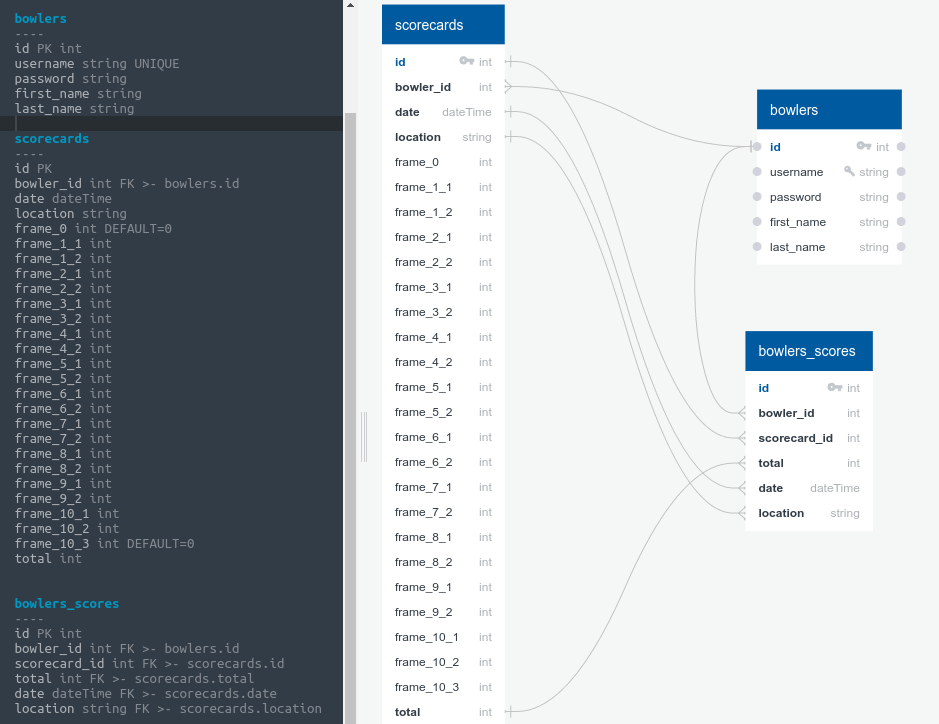
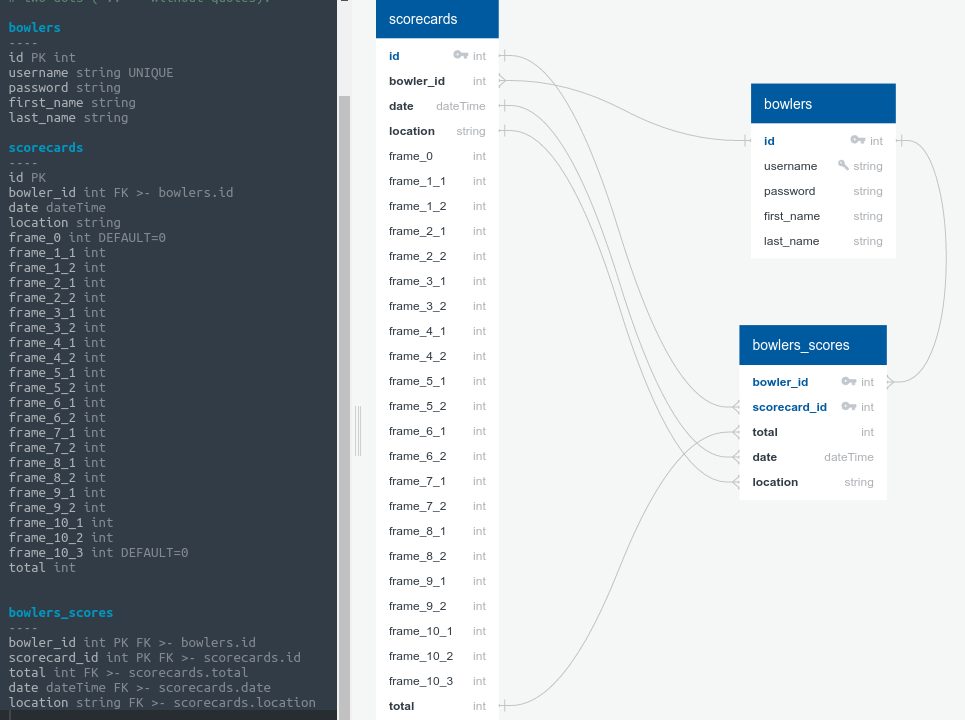
added app.py and models.py. Also made changes to picture

diff --git a/models.py b/models.py
@@ -1,0 +1,99 @@
+from flask_sqlalchemy import SQLAlchemy
+from flask_bcrypt import Bcrypt
+import datetime
+
+db = SQLAlchemy()
+
+bcrypt = Bcrypt()
+
+
+# (app) from app.py
+def connect_db(app):
+    db.app = app
+    db.init_app(app)
+
+
+class Bowler(db.Model):
+    __tablename__ = "bowlers"
+
+    id = db.Column(db.Integer, primary_key=True, autoincrement=True)
+    first_name = db.Column(db.Text, nullable=False)
+    last_name = db.Column(db.Text, nullable=False)
+    username = db.Column(db.Text, nullable=False, unique=True)
+
+    password = db.Column(db.Text, nullable=False)
+
+    # start_register
+    @classmethod
+    def register(cls, username, pwd):
+        """Register user w/hashed password & return user."""
+
+        hashed = bcrypt.generate_password_hash(pwd)
+
+        hashed_utf8 = hashed.decode("utf8")
+
+        return cls(username=username, password=hashed_utf8)
+
+    # start_authenticate
+    @classmethod
+    def authenticate(cls, username, pwd):
+        """Validate that user exists & password is correct.
+
+        Return user if valid; else return False.
+        """
+
+        # searches for the user
+        user = Bowler.query.filter_by(username=username).first()
+
+        if user and bcrypt.check_password_hash(user.password, pwd):
+            return user
+        else:
+            return False
+
+    def __repr__(self):
+        u = self
+        return f"<User id = {u.id}, first_name = {u.first_name}, last_name = {u.last_name}>"
+
+
+class Scorecard(db.Model):
+    __tablename__ = "scorecards"
+
+    id = db.Column(db.Integer, primary_key=True, autoincrement=True)
+    bowler_id = db.Column(db.Integer, db.ForeignKey("bowlers.id"))
+    date = db.Column(db.DateTime, nullable=False, default=datetime.datetime.now)
+    location = db.Column(db.Text, nullable=False)
+    frame_0 = db.Column(db.Text, default=0)
+    frame_1_1 = db.Column(db.Text, nullable=False)
+    frame_1_2 = db.Column(db.Text, nullable=False)
+    frame_2_1 = db.Column(db.Text, nullable=False)
+    frame_2_2 = db.Column(db.Text, nullable=False)
+    frame_3_1 = db.Column(db.Text, nullable=False)
+    frame_3_2 = db.Column(db.Text, nullable=False)
+    frame_4_1 = db.Column(db.Text, nullable=False)
+    frame_4_2 = db.Column(db.Text, nullable=False)
+    frame_5_1 = db.Column(db.Text, nullable=False)
+    frame_5_2 = db.Column(db.Text, nullable=False)
+    frame_6_1 = db.Column(db.Text, nullable=False)
+    frame_6_2 = db.Column(db.Text, nullable=False)
+    frame_7_1 = db.Column(db.Text, nullable=False)
+    frame_7_2 = db.Column(db.Text, nullable=False)
+    frame_8_1 = db.Column(db.Text, nullable=False)
+    frame_8_2 = db.Column(db.Text, nullable=False)
+    frame_9_1 = db.Column(db.Text, nullable=False)
+    frame_9_2 = db.Column(db.Text, nullable=False)
+    frame_10_1 = db.Column(db.Text, nullable=False)
+    frame_10_2 = db.Column(db.Text, nullable=False)
+    frame_10_3 = db.Column(db.Text)
+    total = db.Column(db.Text, nullable=False)
+
+
+class BowlerScore(db.Model):
+
+    __tablename__ = "bowlers_scores"
+    bowler_id = db.Column(db.Integer, db.ForeignKey("bowlers.id"), primary_key=True)
+    scorecard_id = db.Column(db.Integer, db.ForeignKey("scorecards.id"), primary_key=True)
+    total = db.Column(db.Integer, db.ForeignKey("scorecards.total"))
+
+    # ! set up relationship?
+    date = db.Column(db.Integer, db.ForeignKey("scorecards.date"))
+    location = db.Column(db.Integer, db.ForeignKey("scorecards.location"))

diff --git a/app.py b/app.py
@@ -1,0 +1,18 @@
+from flask import Flask, render_template, redirect, session, flash
+from flask_debugtoolbar import DebugToolbarExtension
+from models import connect_db, db
+from sqlalchemy.exc import IntegrityError
+import os
+
+app = Flask(__name__)
+app.config["SQLALCHEMY_DATABASE_URI"] = os.environ.get("DATABASE_URL", "postgresql:///bowling_scorecard_db")
+app.config["SQLALCHEMY_TRACK_MODIFICATIONS"] = False
+app.config["SQLALCHEMY_ECHO"] = True
+app.config["SECRET_KEY"] = os.environ.get("SECRET_KEY", "bowlingrocks")
+app.config["DEBUG_TB_INTERCEPT_REDIRECTS"] = False
+
+
+connect_db(app)
+db.create_all()
+
+toolbar = DebugToolbarExtension(app)
